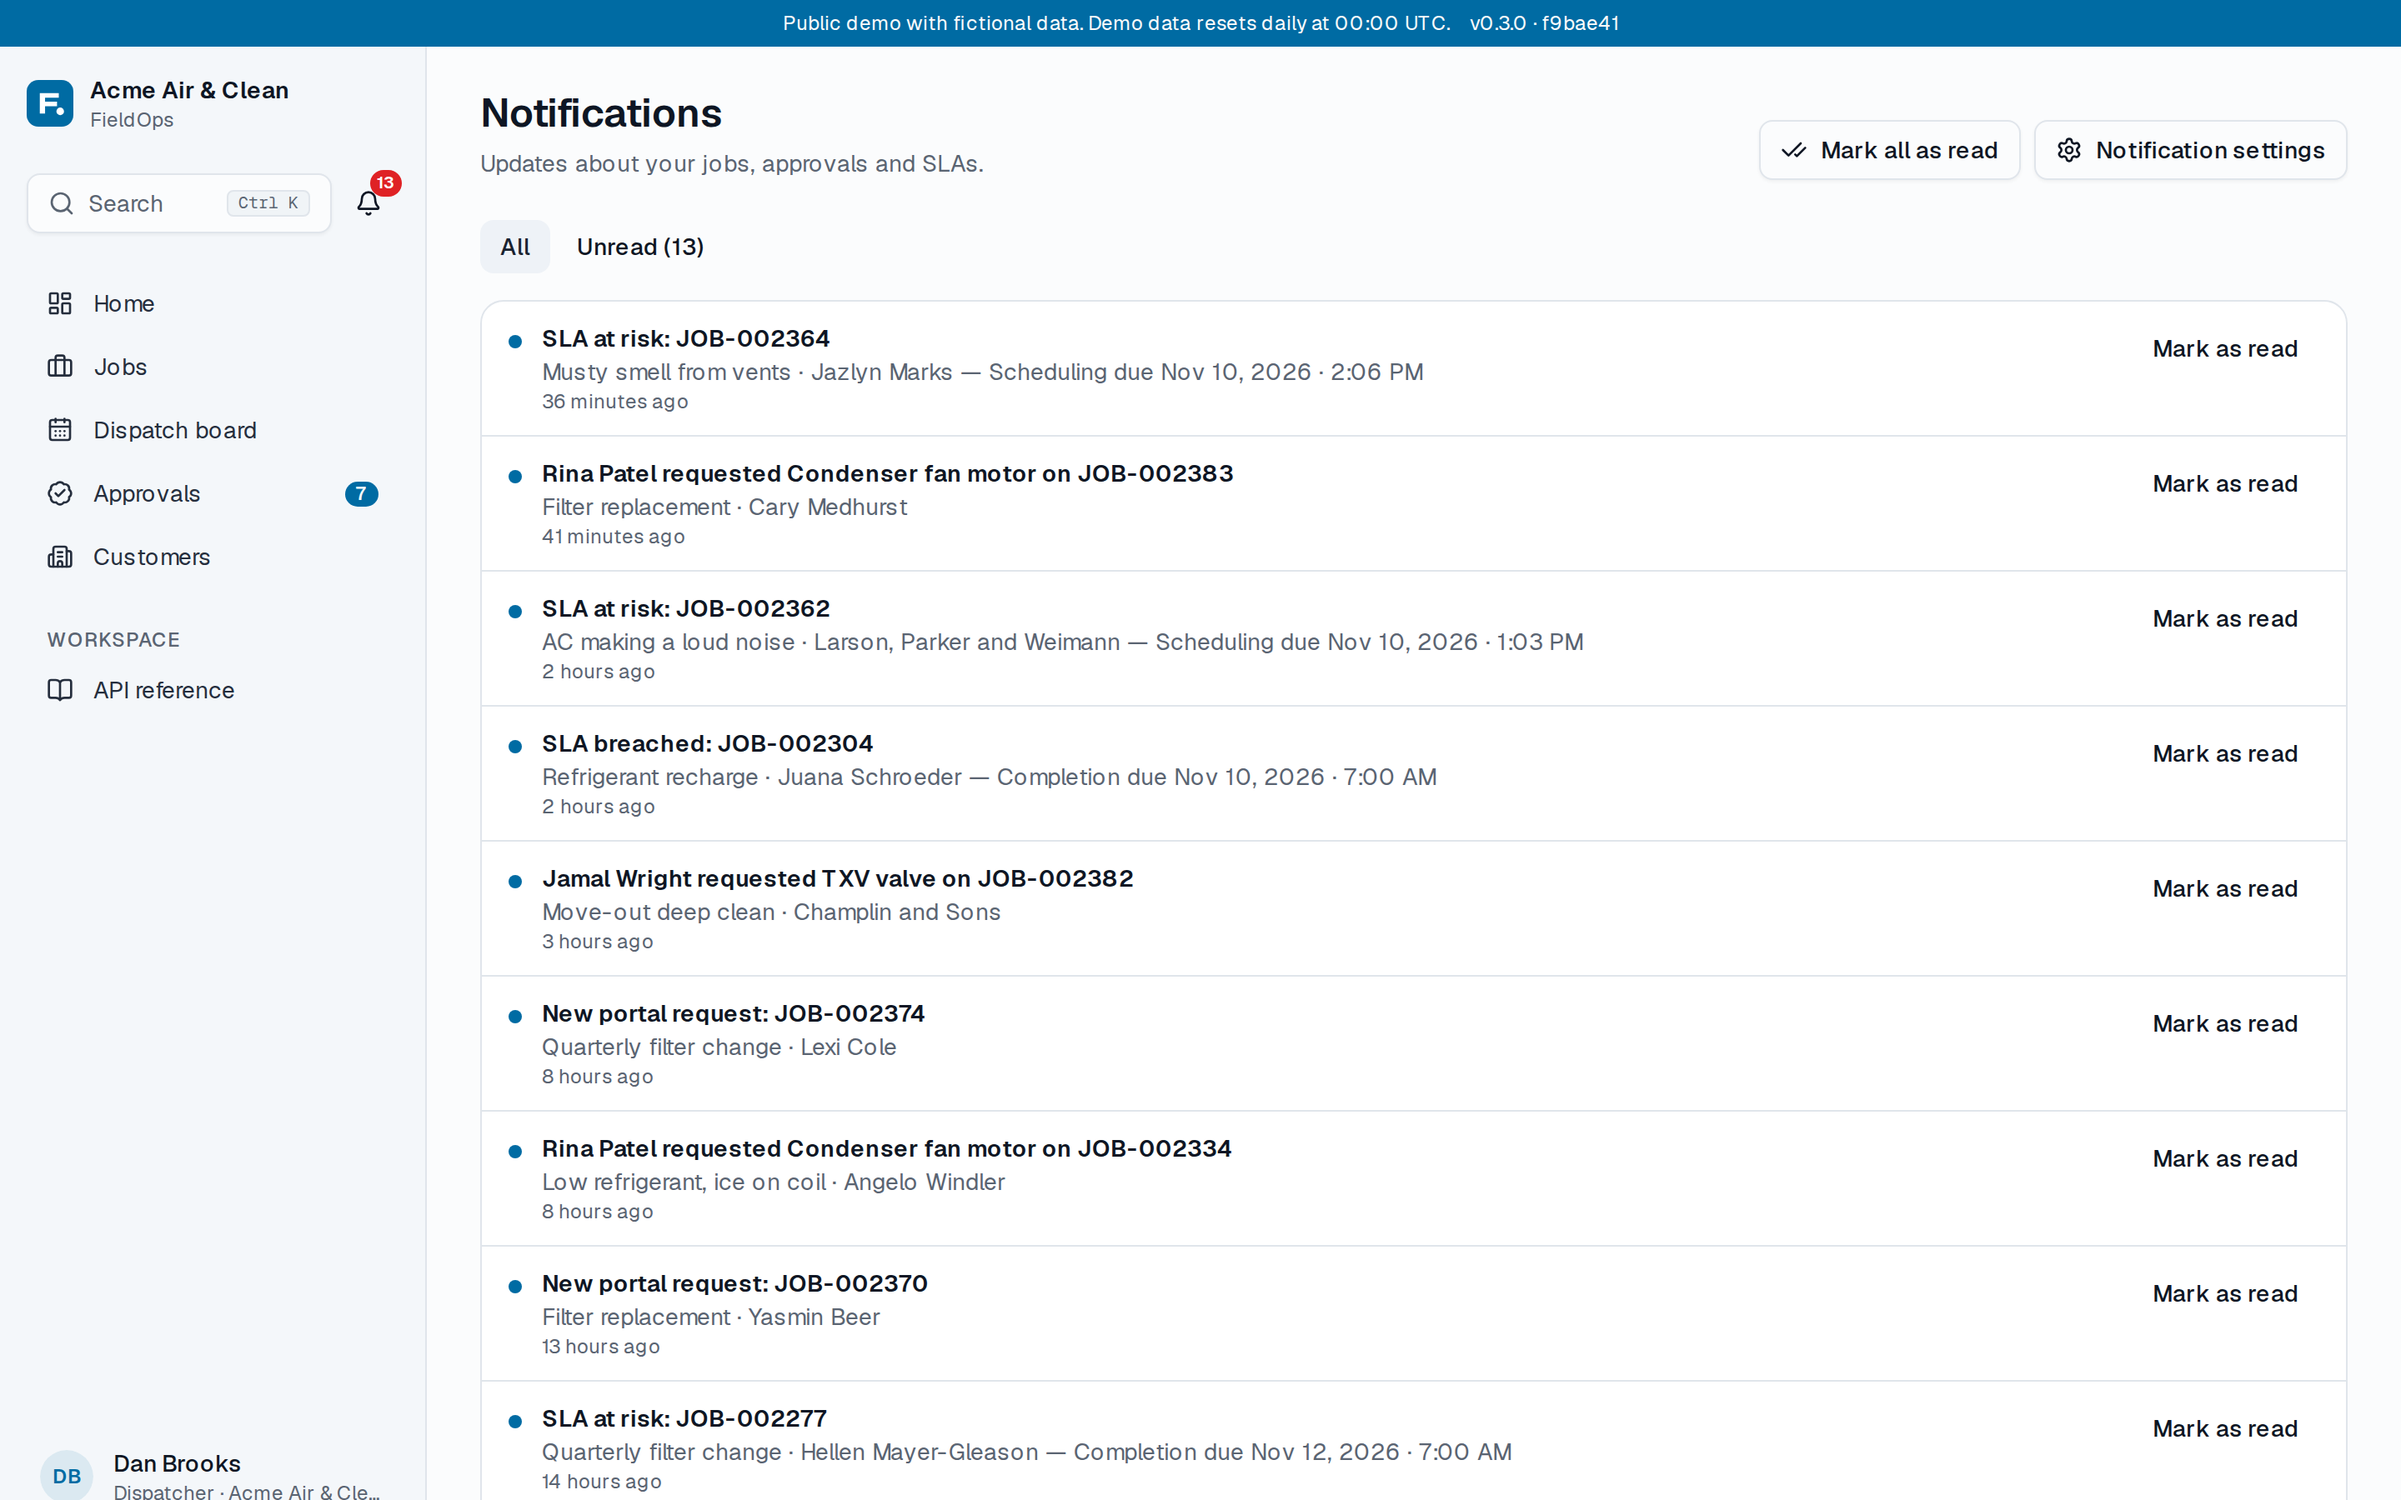
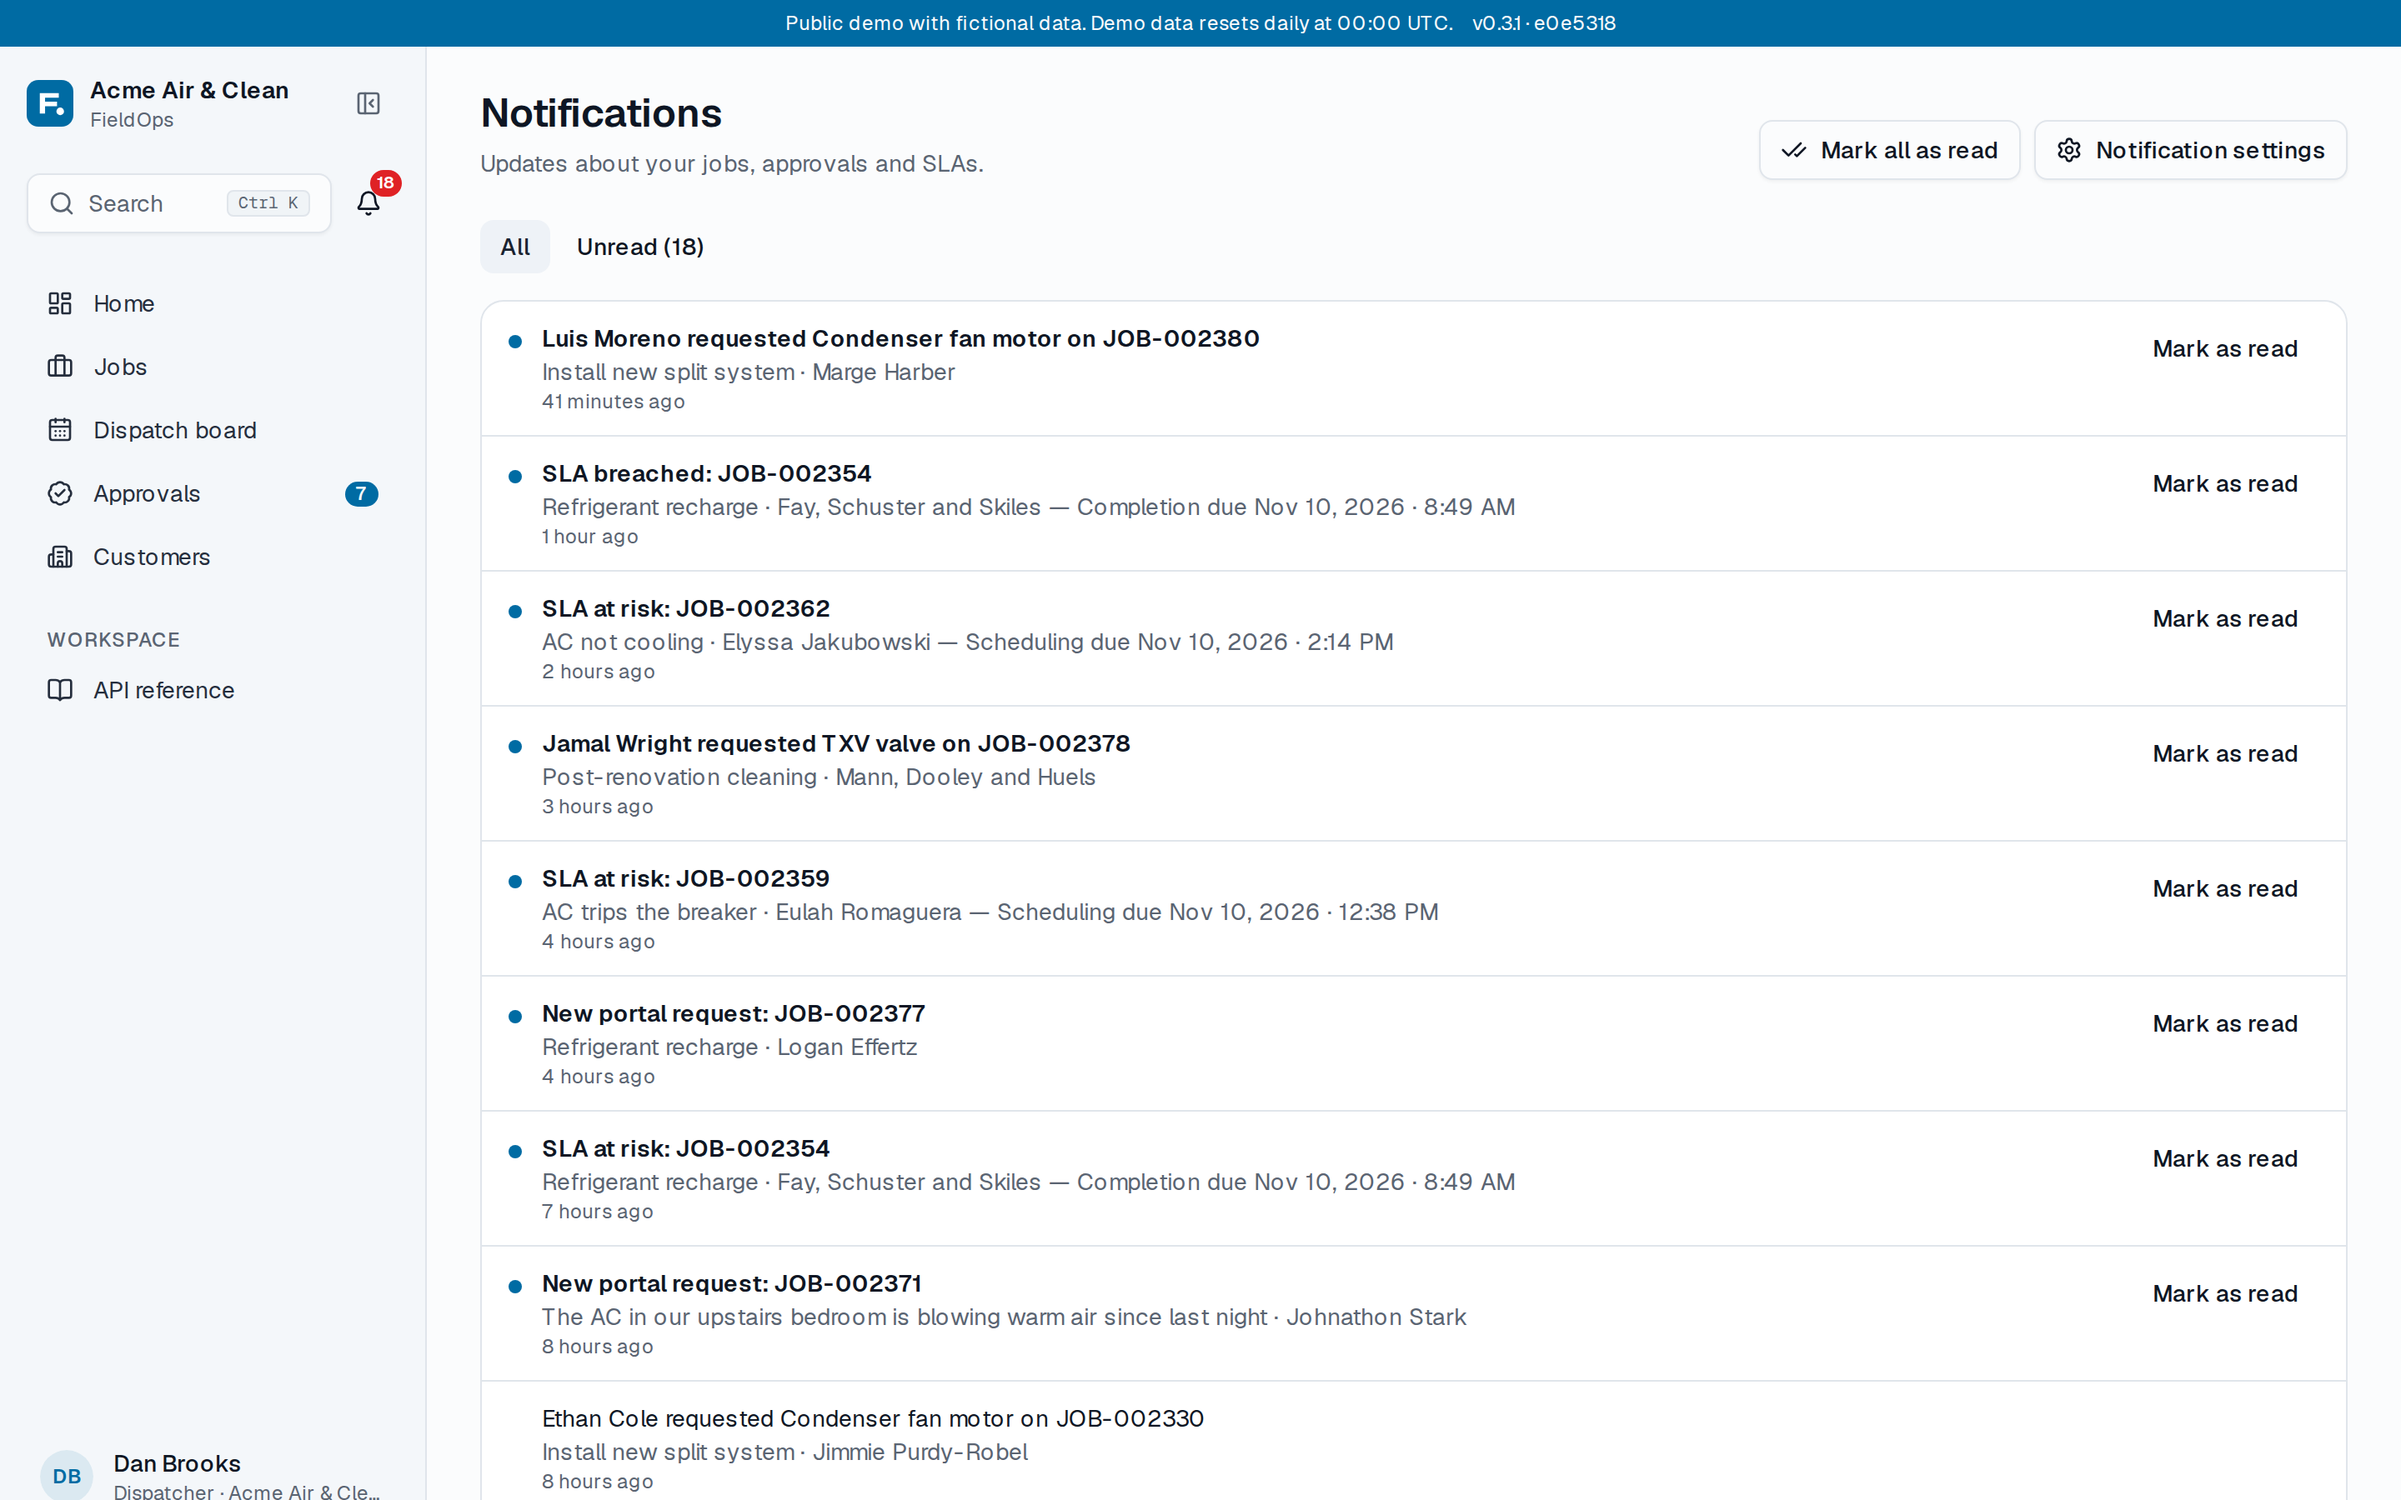
docs: 0.3.1 screenshots, release GIF and README

diff --git a/README.md b/README.md
@@ -40,13 +40,15 @@ A second fictional company, _Acme Teknik Nusantara_ (Jakarta, IDR), shows that t
   already carry drafts.
 - **Audit log:** every change with who, when, before and after, written by the database itself.
 - **Also:** CSV export of every dashboard report, sign in with Google, a "Try these 5 things" card for demo
-  visitors.
+  visitors, and (0.3.1) a sidebar that collapses to icons with Ctrl/⌘ B.
 
-| Customer portal                                 | Notifications                                        |
-| ----------------------------------------------- | ---------------------------------------------------- |
-| ![Customer portal](docs/screenshots/portal.png) | ![Notifications](docs/screenshots/notifications.png) |
-| **Audit log**                                   | **SLA policies**                                     |
-| ![Audit log](docs/screenshots/audit-log.png)    | ![SLA policies](docs/screenshots/sla-policies.png)   |
+| Customer portal                                      | A portal request with its AI draft                                                          |
+| ---------------------------------------------------- | ------------------------------------------------------------------------------------------- |
+| ![Customer portal](docs/screenshots/portal.png)      | ![AI review of a portal request](docs/screenshots/ai-review.png)                            |
+| **Notifications**                                    | **Audit log**                                                                               |
+| ![Notifications](docs/screenshots/notifications.png) | ![Audit log](docs/screenshots/audit-log.png)                                                |
+| **SLA policies**                                     | **The board with the sidebar collapsed**                                                    |
+| ![SLA policies](docs/screenshots/sla-policies.png)   | ![Dispatch board with the sidebar collapsed to icons](docs/screenshots/board-collapsed.png) |
 
 Release 0.2 added the dispatch board with conflict checks, the technician workspace, parts approvals and the KPI
 dashboard; release 0.1 laid the base: accounts and roles, customers and sites, the job lifecycle, the REST API with
